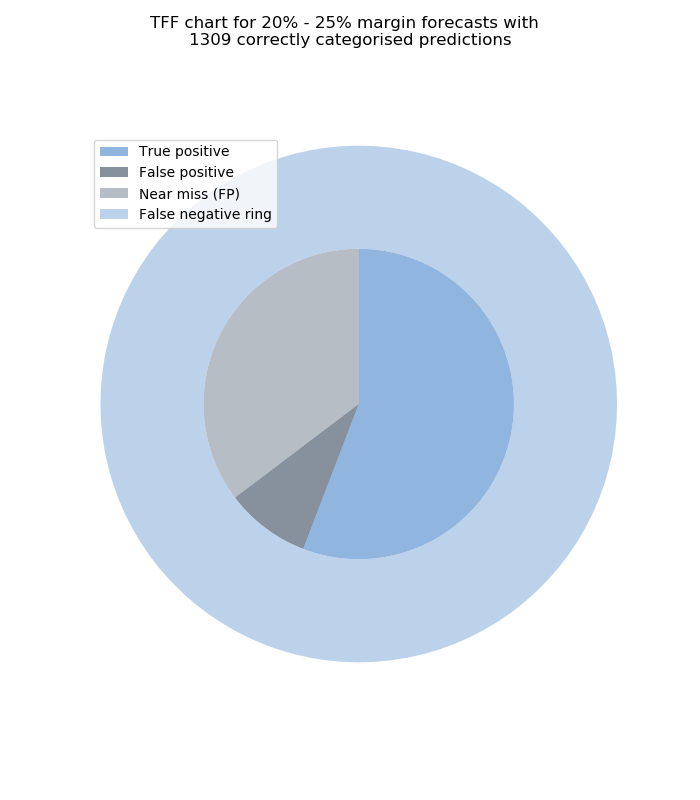
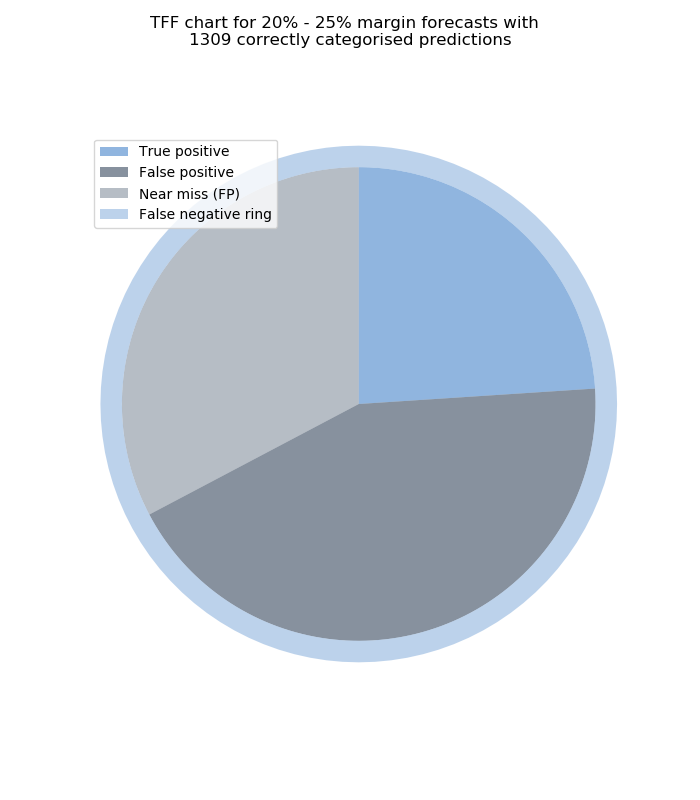
amended input csv & checked chart sums

Changed region(s): [[0.15, 0.1875, 0.87, 0.8125]]

diff --git a/src/visualisation/TrueFalseFalseCharts.py b/src/visualisation/TrueFalseFalseCharts.py
@@ -13,7 +13,7 @@ Stresses are on the first and third syllables, it is a compound word.
 @author: jay
 """
 
-#%%    # outer ring is correct thickness, now for near misses
+#%%  
 
 import os
 import pandas as pd
@@ -23,17 +23,13 @@ import statistics
 import matplotlib.pyplot as plt; plt.rcdefaults()
 
 os.chdir('./data/processed')
-#confusionDF = pd.read_csv('marginRowsTargetCols-TopLeftOrigin-mgrPred.csv', header = None)           # managers' predictions, change selection as required
-#confusionDF = pd.read_csv('marginRowsTargetCols-TopLeftOrigin-CatBoostPred.csv', header = None)      # CatBoost
-
-confusionDF = pd.read_csv('sampleConfusionMatrix.csv', header = None)   # Random Forest check this dataframe in console to find sensible run limits                                                                                                        # old run before row/col change  
-
-
+confusionDF = pd.read_csv('sampleConfusionMatrix.csv', header = None)   # check csv has forecasts as rows (y) and margins as columns (x)                                                                                                        # old run before row/col change  
 os.chdir('../../reports/figures')
+
 #%% now for multi-plots of polars
 
-binSize = 5                                 # has to be 5 to match pd.cut step size in previous code
-for diagonalRun in list(range(4,10,1)):     # this range is selected because extreme margins are not usually predicted, also code needs +-1 row cell to count near miss
+binSize = 5                                 # alter as needed to match pd.cut step size in code that created the confusion matrix
+for diagonalRun in list(range(4,10,1)):     # this range is selected because extreme margins are not usually predicted, also code needs +-1 column cell to provide near miss counts
     
     thisRow, thisCol = diagonalRun, diagonalRun
     rowPercent, colPercent = thisRow * binSize - 10, thisCol * binSize - 10
@@ -56,7 +52,7 @@ for diagonalRun in list(range(4,10,1)):     # this range is selected because ext
     # update title string as needed ->
     plt.suptitle('TFF chart for ' + str(rowPercent) + '% - ' + str(rowPercent + binSize) + '% margin forecasts with  \n' + str(truePositive) + ' correctly categorised predictions')
     ax = plt.subplot(111, projection = 'polar')
-    #ax.set(suptitle = 'Suptitle')
+    
     
     ax.set_axis_off()
     truePangle = 2 * np.pi * truePositive / discArea
@@ -69,7 +65,7 @@ for diagonalRun in list(range(4,10,1)):     # this range is selected because ext
     ax.bar((np.pi / 2 + nearMissFPangle / 2), discR, width = nearMissFPangle, bottom = 0, color = '#10253f', alpha = 0.3)       # nearMissFP
     ax.bar((np.pi / 2), ringR - discR, width = np.pi * 2, bottom = discR, color = '#90b5df', alpha = 0.6)                       # falseNegative
     ax.legend(['True positive','False positive','Near miss (FP)','False negative ring'], loc = 'upper left')
-    #plt.show()                                                             # comment out plt.savefig when testing
-    plt.savefig('TEST-TFF' + str(colPercent) + 'pc-demo.png')        # turn off plt.show() to save, change name according to input file
+    plt.show()                                                             # comment out plt.savefig when testing
+    #plt.savefig('TEST-TFF' + str(colPercent) + 'pc-demo.png')        # turn off plt.show() to save, change name as required
     
    

diff --git a/src/data/makeConfusionMatrixFromTwoColumns.py b/src/data/makeConfusionMatrixFromTwoColumns.py
@@ -19,7 +19,7 @@ import pandas as pd
 from sklearn.metrics import confusion_matrix
 
 os.chdir('.data/raw')
-thisDF = pd.read_csv('targets-n-profits.csv')
+thisDF = pd.read_csv('targets-v-margins.csv')
 originalRows = len(thisDF)
 print('Dataframe from original raw csv has provided', originalRows, 'rows.')
 
@@ -54,7 +54,7 @@ thisDF['intTarget'].value_counts()   	# check distribution looks ok, went squiff
 thisDF['intMargin'].value_counts()
 
 # all the preparation has led to this single transforming line
-arrayCM = confusion_matrix(thisDF['intTarget'], thisDF['intMargin'])
+arrayCM = confusion_matrix(thisDF['intTarget'], thisDF['intMargin'])    # target profit is row, actual margin is column
 
 # print and save
 print(arrayCM)
